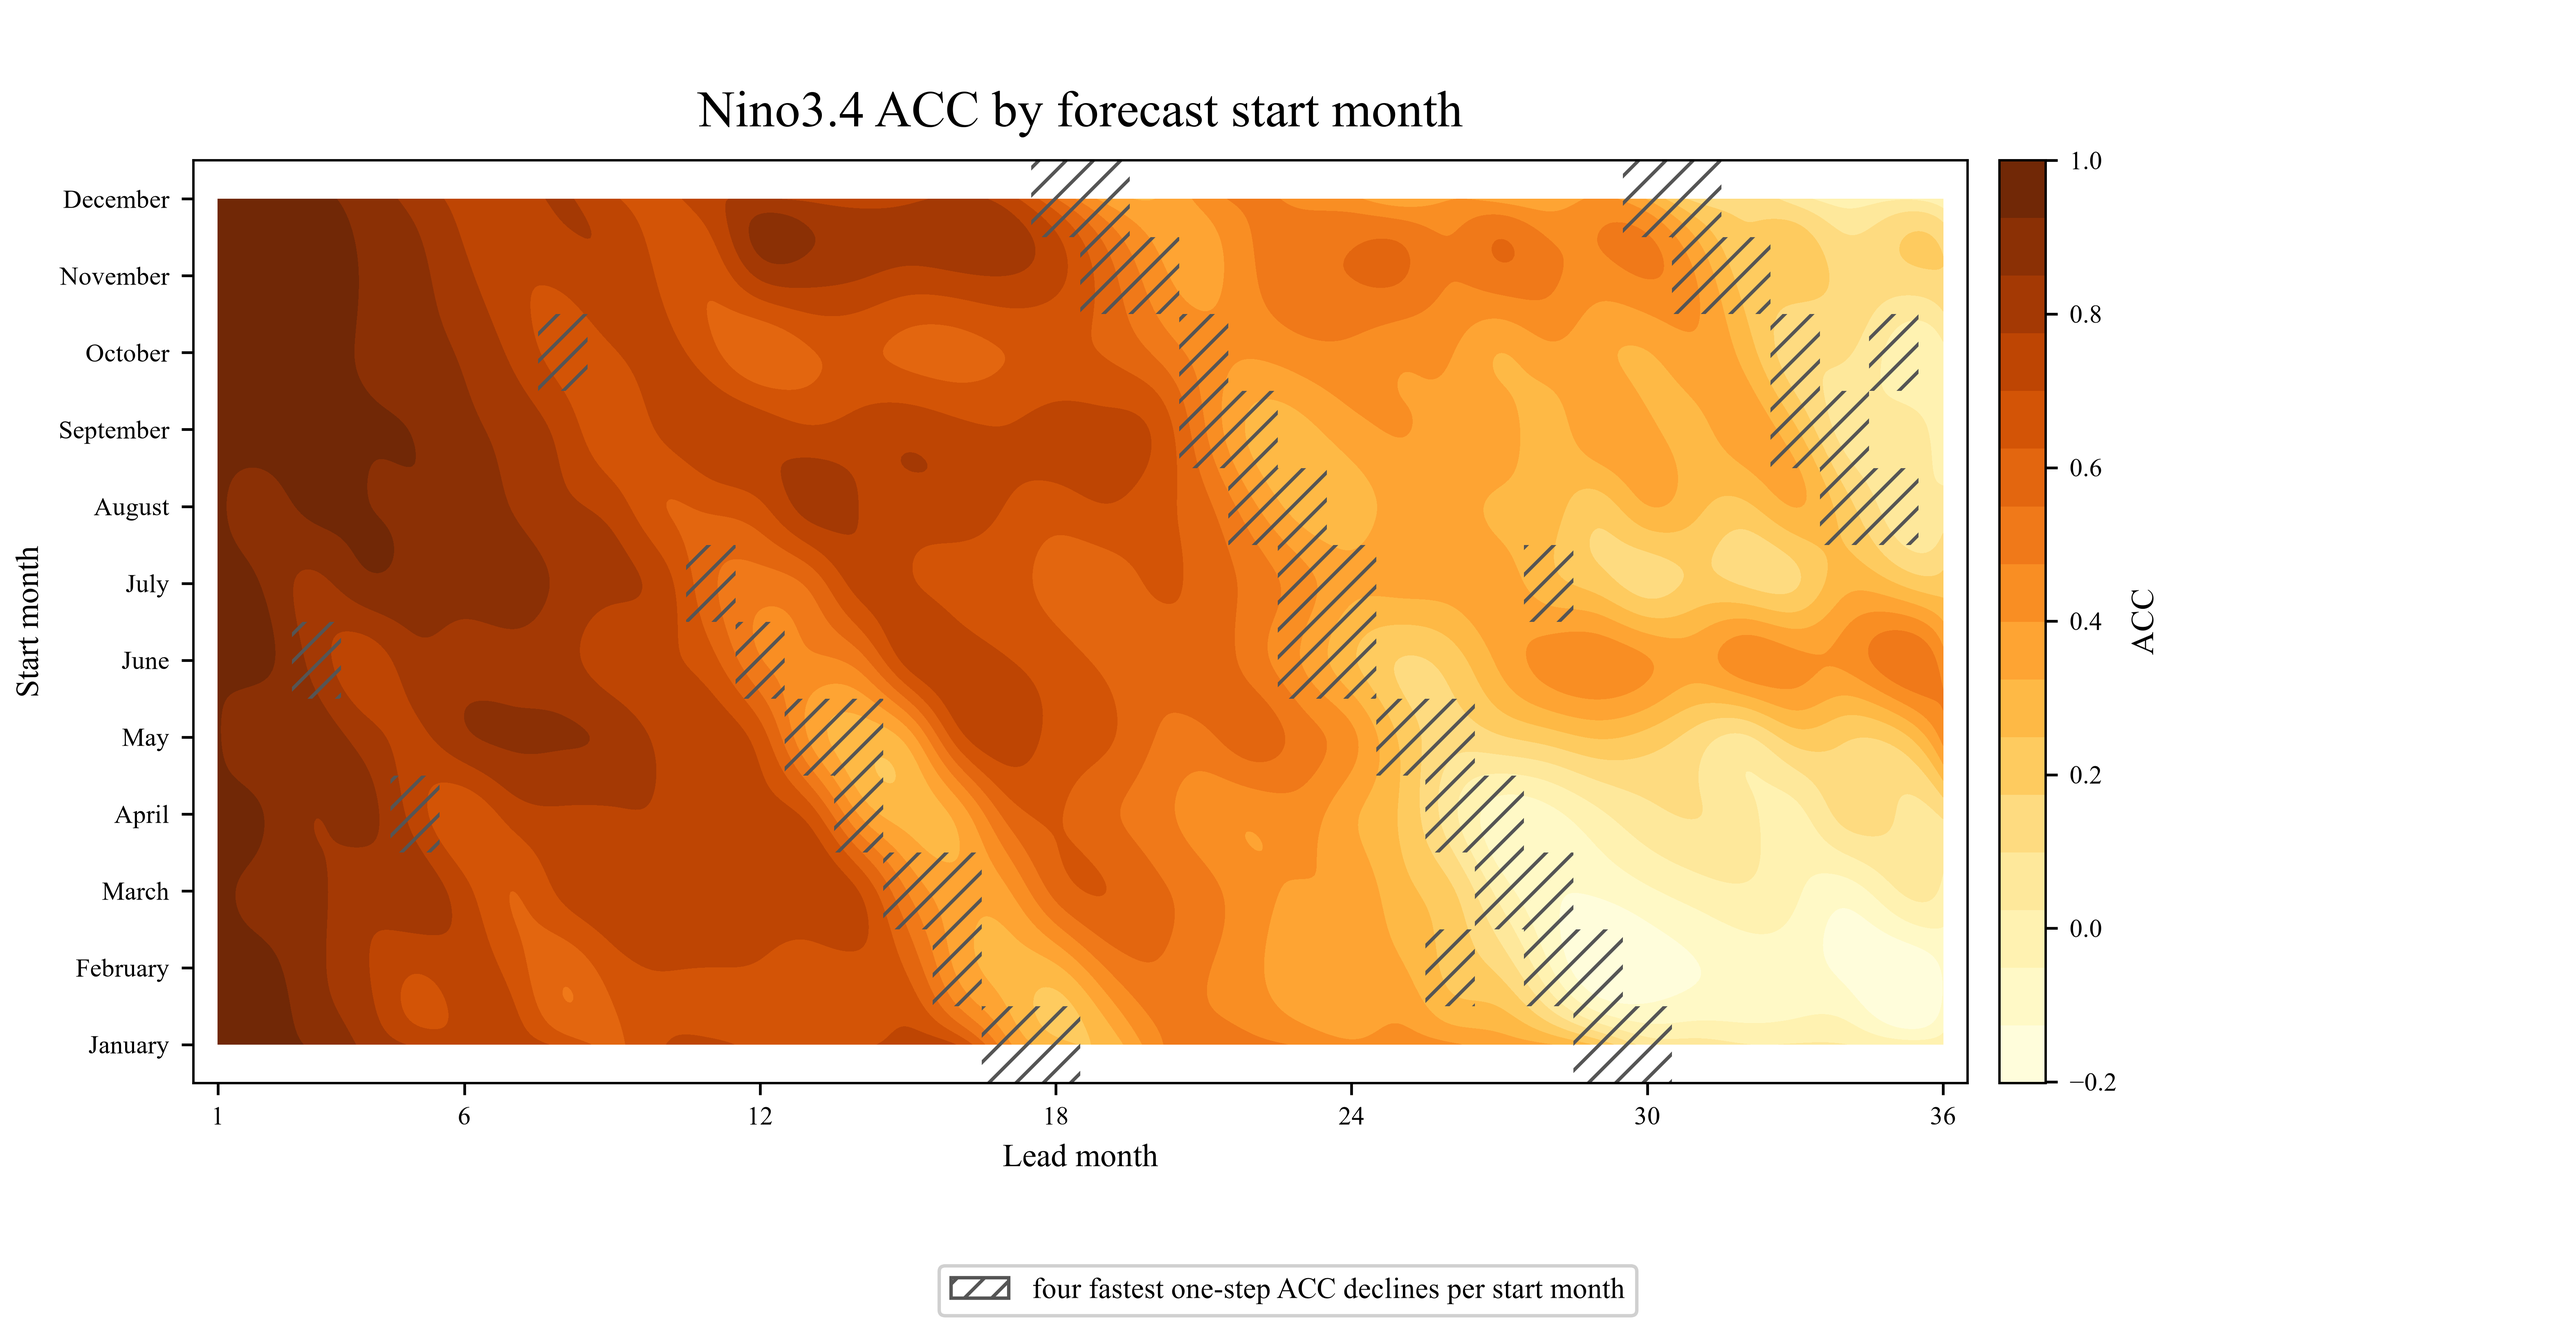
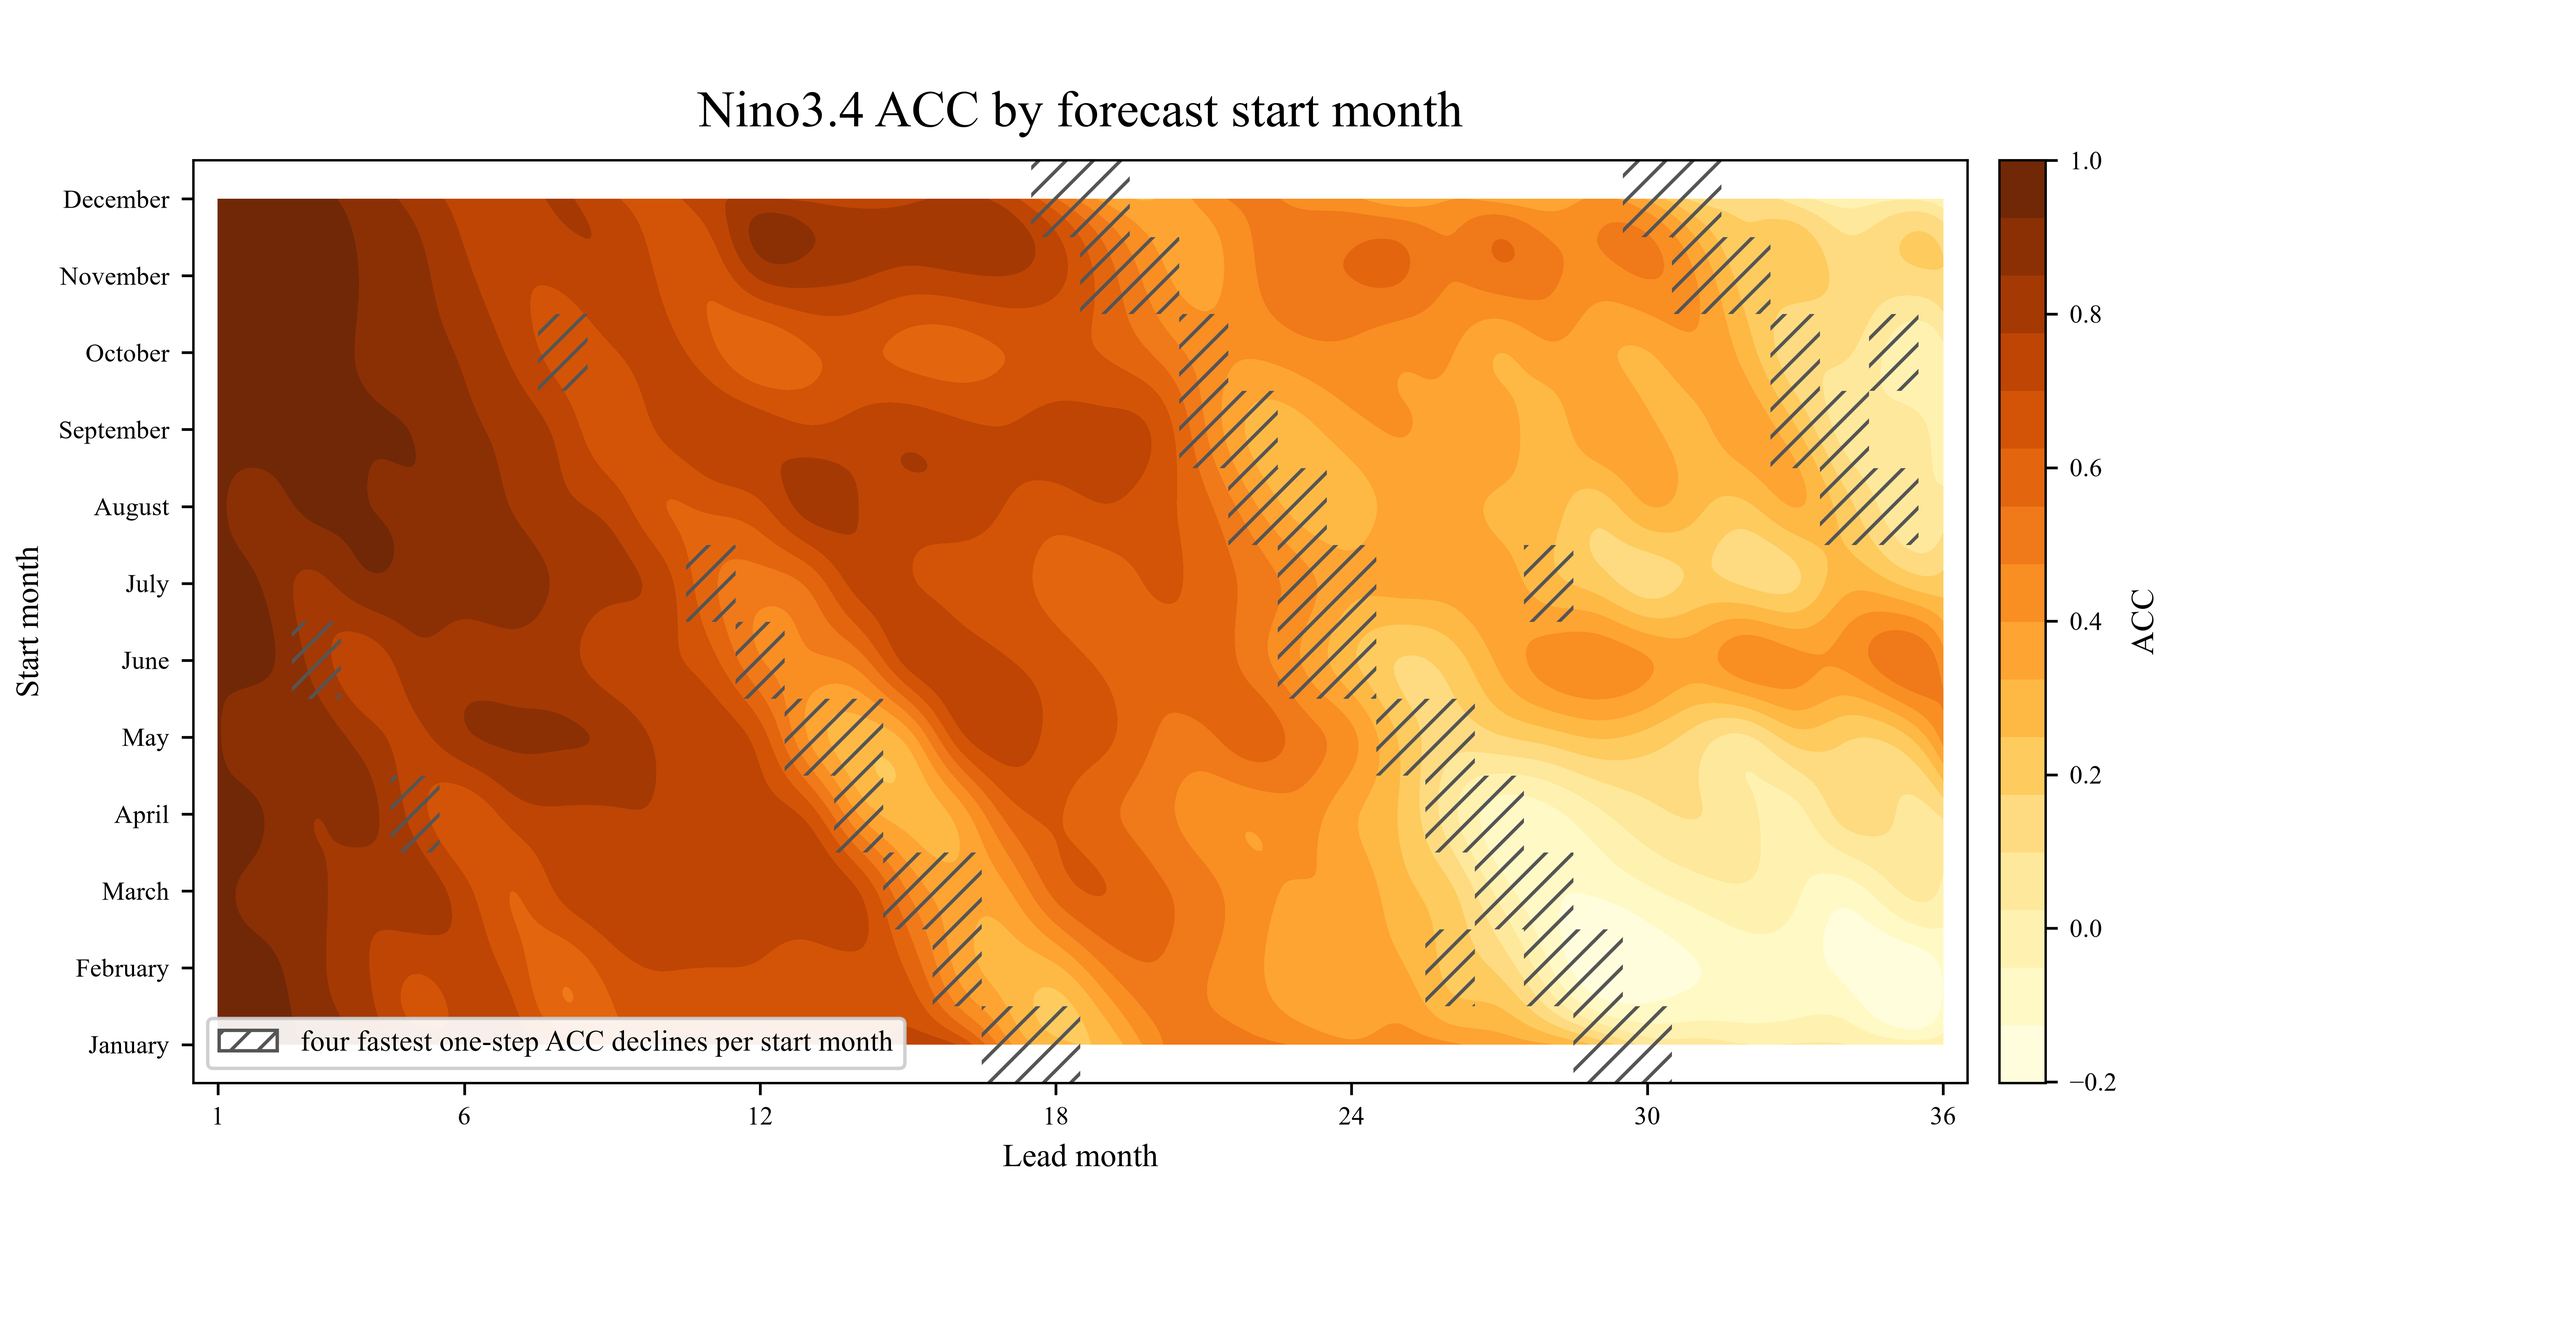
plot: place fastest-decline legend inside heatmap

Changed region(s): [[0.0622, 0.7486, 0.3733, 0.811], [0.3733, 0.9358, 0.6222, 0.9982]]

diff --git a/scripts/plotting/plot_acc_by_start_month.py b/scripts/plotting/plot_acc_by_start_month.py
@@ -118,10 +118,10 @@ def main() -> None:
         cb.set_label("ACC")
         cb.set_ticks([-0.2, 0.0, 0.2, 0.4, 0.6, 0.8, 1.0])
         from matplotlib.patches import Patch
-        fig.legend(
+        ax.legend(
             handles=[Patch(facecolor="white", edgecolor="#555555", hatch="///",
                            label="four fastest one-step ACC declines per start month")],
-            loc="lower center", bbox_to_anchor=(0.5, 0.005),
+            loc="lower left",
             framealpha=0.92, fontsize=8.5,
         )
         for fmt in ("png", "pdf"):
